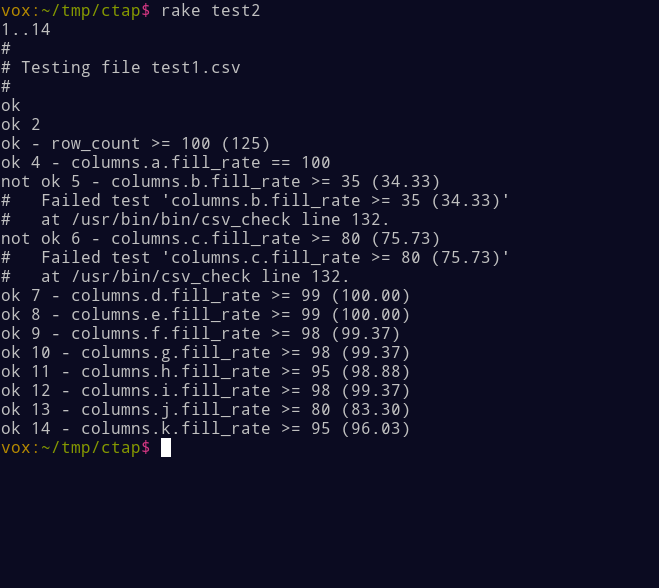
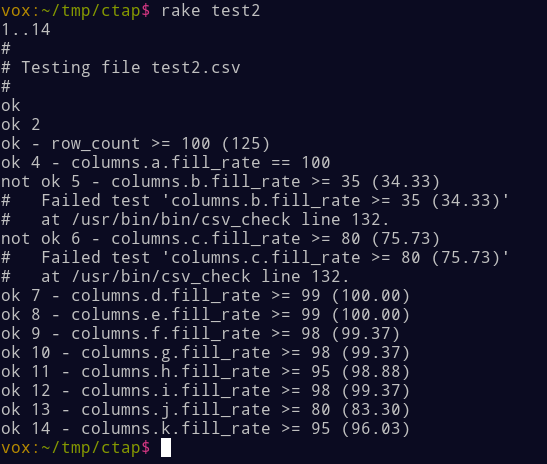
Update screenshots and README.

diff --git a/README.md b/README.md
@@ -11,7 +11,7 @@ It turns boring old TAP output:
 
 into snazzy, easily-scannable output:
 
-![Snazzy, scannable TAP output](/screenshots/test2c.png?raw=true)
+![Snazzy, scannable TAP output](/screenshots/test2gs.png?raw=true)
 
 and returns non-zero exit codes on failures.
 
@@ -49,11 +49,11 @@ Usage
 Todo
 ----
 
-- add `-f` option to show failures (suppress successes from TAP output)
-- add `-g` option to use glyphs instead of 'ok/not ok' in TAP output
-- add options to specify custom colours (`-POFDB`)
-- add config file support for standard options/colours
-- add other renderers to transmute TAP output (e.g. 'dots') (?)
+- [x] add `-f` option to show failures (suppress successes from TAP output)
+- [x] add `-g` option to use glyphs instead of 'ok/not ok' in TAP output
+- [ ] add options to specify custom colours (`-POFDB`?)
+- [ ] add config file support for standard options/colours
+- [ ] add other renderers to transmute TAP output (e.g. 'dots') (?)
 
 
 Author
